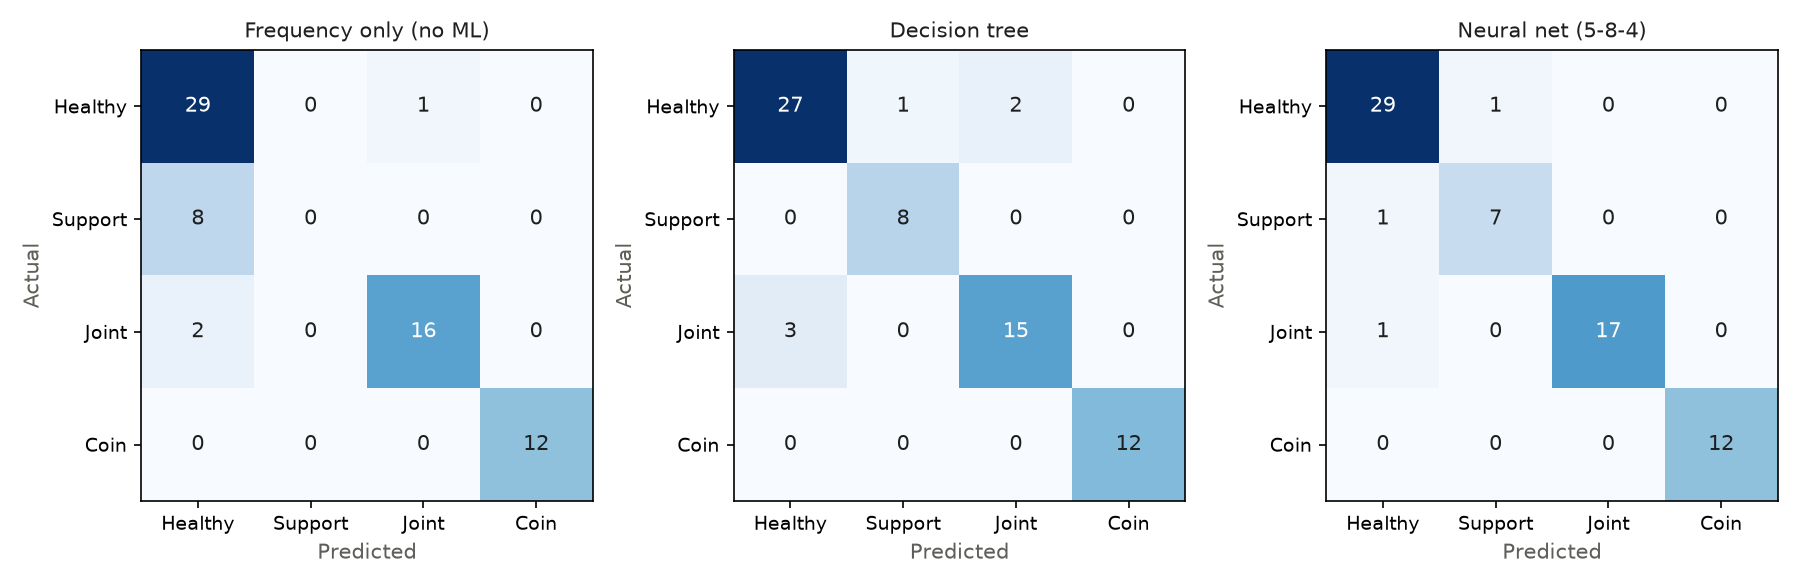
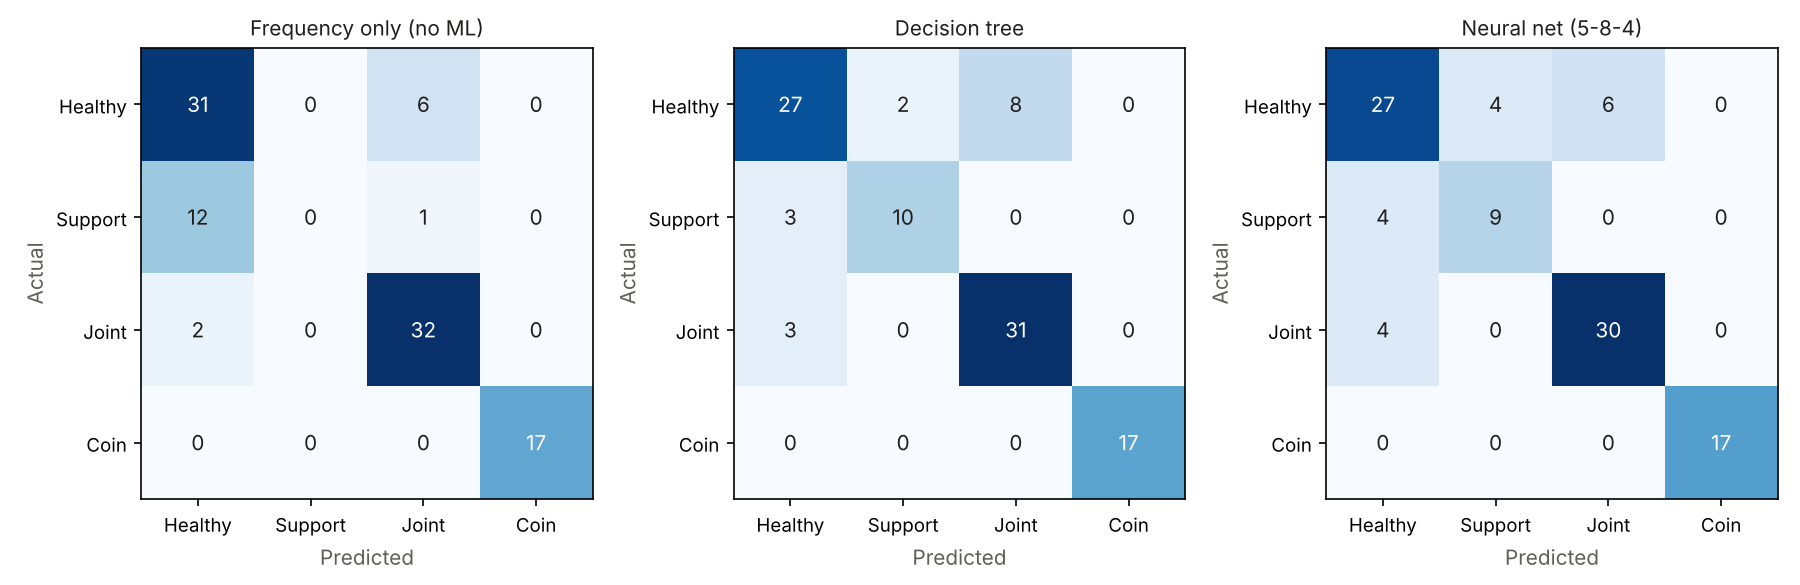
Retrain on all lab readings: relabel test-named files, rebuild features and model

diff --git a/board/model.h b/board/model.h
@@ -1,33 +1,37 @@
-/* AUTO-GENERATED by pc/train.py from 'real' data on 2026-10-28 22:35. Do not edit by hand: retrain instead. */
+/* AUTO-GENERATED by pc/train.py from 'real' data on 2026-10-29 10:56. Do not edit by hand: retrain instead. */
 #ifndef MODEL_H
 #define MODEL_H
 
 #define N_FEAT 5
 #define N_CLASS 4
 #define N_HIDDEN 8
-#define KNN_N 68
+#define KNN_N 101
 
 static const char *const CLASS_NAME[N_CLASS] = {"HEALTHY", "LOOSE_SUPPORT", "LOOSE_JOINT", "ADDED_MASS"};
 /* feature order: f1_hz, damping, amp_g, energy_ratio, decay_s */
 
-static const float SC_MEAN[N_FEAT] = {4.473004f, 0.02716155f, 2.838084f, 0.01500434f, 3.503676f};
-static const float SC_STD[N_FEAT]  = {0.3969182f, 0.006050448f, 0.891126f, 0.04986002f, 1.374995f};
+static const float SC_MEAN[N_FEAT] = {4.388362f, 0.0250465f, 2.97687f, 0.03206512f, 4.05198f};
+static const float SC_STD[N_FEAT]  = {0.4357912f, 0.008942563f, 0.9924637f, 0.1138078f, 1.944565f};
 
 /* Decision tree (works on raw, unscaled features) */
 static int tree_predict(const float *f)
 {
-    if (f[0] <= 4.53899f) {   /* f1_hz */
-        if (f[0] <= 4.073935f) {   /* f1_hz */
+    if (f[0] <= 4.535375f) {   /* f1_hz */
+        if (f[0] <= 3.86936f) {   /* f1_hz */
             return 3;
         } else {
-            return 2;
+            if (f[1] <= 0.0223971f) {   /* damping */
+                return 2;
+            } else {
+                return 2;
+            }
         }
     } else {
         if (f[1] <= 0.0338416f) {   /* damping */
-            if (f[4] <= 3.125f) {   /* decay_s */
+            if (f[2] <= 4.94214f) {   /* amp_g */
                 return 0;
             } else {
-                return 0;
+                return 1;
             }
         } else {
             return 1;
@@ -37,105 +41,138 @@ static int tree_predict(const float *f)
 
 /* Neural network: hidden = relu(W1 * x + b1), out = W2 * hidden + b2 */
 static const float NN_W1[N_HIDDEN][N_FEAT] = {
-    {-0.7853181f, 0.2661794f, -1.463147f, -1.372062f, 0.5248365f},
-    {1.875099f, 0.2158859f, 0.4927367f, 0.1290091f, -0.5314819f},
-    {1.02453f, 2.204229f, 0.3709678f, -0.4438259f, -1.340457f},
-    {-0.02013136f, -0.2927028f, 0.1605594f, 1.190149f, 0.5456217f},
-    {0.5750396f, 0.4742824f, 1.494026f, 0.7307562f, 0.2315226f},
-    {0.9168659f, -0.4592688f, -0.2123078f, -0.7272265f, 0.3484041f},
-    {0.03969496f, -0.5064908f, 0.05105328f, -0.2010273f, 0.5074154f},
-    {0.4707724f, -1.721488f, 0.5556094f, -0.08591001f, 0.06441382f}
+    {-0.8836706f, 0.3383932f, -1.341994f, -1.69552f, 0.572061f},
+    {0.8919419f, 0.04597291f, 1.019602f, 0.486937f, 0.4764103f},
+    {1.181526f, 1.768599f, 0.3519936f, -0.6887702f, -1.550507f},
+    {-0.4664389f, -0.1161176f, 1.039079f, 0.7936109f, 0.4407922f},
+    {0.7347332f, -0.02062729f, 1.088348f, 0.02125157f, 0.4159958f},
+    {0.60207f, -0.1712505f, -0.188681f, -0.7850809f, 0.04838491f},
+    {0.2220936f, -0.4617013f, -0.09827895f, 0.04880272f, 0.3885174f},
+    {0.5150062f, -1.583272f, 0.2944313f, -0.0411761f, 0.08550909f}
 };
-static const float NN_B1[N_HIDDEN] = {0.6057019f, -0.3006353f, 0.2479733f, -0.1263551f, 0.8579294f, 1.412279f, -0.5043284f, 1.410694f};
+static const float NN_B1[N_HIDDEN] = {0.836213f, -0.6615249f, 0.8261668f, -0.8904328f, 0.7419775f, 1.42474f, -0.6186491f, 0.9831308f};
 static const float NN_W2[N_CLASS][N_HIDDEN] = {
-    {-0.5368956f, 1.518659f, 0.1995815f, -1.153331f, -1.014147f, 1.272246f, 0.4693256f, -0.2673269f},
-    {-0.959606f, 0.5350457f, 0.6587948f, -0.05418951f, 0.6427418f, -0.8515257f, -0.01951892f, -2.341716f},
-    {-0.583885f, -2.013425f, -0.807294f, 0.1019739f, -0.2822262f, 1.27225f, 0.5498074f, 0.510305f},
-    {0.8765858f, -1.243169f, -0.8962595f, -0.9573891f, -1.196806f, -0.6304674f, -0.6183422f, -1.114511f}
+    {-0.5339372f, 1.140038f, 0.1123037f, 1.211091f, -0.9042723f, 1.638048f, 0.4652769f, -0.4746721f},
+    {-1.278871f, 0.3315584f, 0.6738397f, -1.280292f, 0.4930093f, -0.6290881f, -0.04532188f, -1.888764f},
+    {-0.5647647f, -1.743873f, -0.828193f, -0.6292436f, 0.6962386f, 0.8381314f, 0.5681491f, 0.6034502f},
+    {1.035079f, -0.8213552f, -0.9358833f, -0.2391317f, -1.454965f, -0.5995556f, -0.5403484f, -1.224857f}
 };
-static const float NN_B2[N_CLASS] = {-0.3756896f, -1.466087f, 0.5205838f, 0.3773618f};
+static const float NN_B2[N_CLASS] = {-0.9216086f, -1.202879f, 0.178651f, 0.08815684f};
 
 /* Health score: health = 100 * (1 - mean KNN_DAMAGE of the 3 nearest labelled flicks) */
 #define UNSAFE_HEALTH 40.0f
 
 /* Change detector: healthy baseline (raw features) */
-static const float HB_MEAN[N_FEAT] = {4.71499f, 0.02963886f, 2.847854f, 0.00540816f, 2.775f};
-static const float HB_STD[N_FEAT]  = {0.08608599f, 0.00145514f, 0.7553206f, 0.003302253f, 0.2076656f};
-#define CHANGE_THR 3.0f
+static const float HB_MEAN[N_FEAT] = {4.663599f, 0.02837784f, 2.959962f, 0.02548369f, 3.060811f};
+static const float HB_STD[N_FEAT]  = {0.1514319f, 0.005004144f, 0.9657035f, 0.1102672f, 1.204448f};
+#define CHANGE_THR 6.924278f
 
 /* kNN memory (scaled features). Teach mode adds more in RAM. */
-#define NOVELTY_THR 1.087385f
+#define NOVELTY_THR 2.915979f
 static const float KNN_X[KNN_N][N_FEAT] = {
-    {-2.202553f, -0.3955322f, -0.6246185f, -0.2763711f, 0.7246015f},
-    {-2.000219f, -0.1732511f, -1.49812f, -0.2734858f, 0.3609639f},
-    {-1.880547f, -0.2932753f, -1.482769f, -0.2640827f, 0.3609639f},
-    {-1.950083f, -0.304696f, -1.540146f, -0.2768472f, 0.5427827f},
-    {-2.091724f, -0.1789697f, -0.6317107f, -0.2771862f, 0.3609639f},
-    {-1.921387f, -0.1903573f, -1.234757f, -0.273964f, 0.3609639f},
-    {-2.000749f, -0.1900433f, -0.9564571f, -0.278687f, 0.3609639f},
-    {-1.91597f, -0.2621206f, -1.229381f, -0.2763597f, 0.5427827f},
-    {-2.22354f, -0.2966635f, -0.9904142f, -0.264905f, 0.7246015f},
-    {-2.046476f, -0.2305857f, -1.548326f, -0.2551298f, 0.5427827f},
-    {-2.178191f, -0.2266522f, -1.265762f, -0.2731569f, 0.5427827f},
-    {-1.98989f, -0.01594048f, -1.015416f, -0.273774f, 0.179145f},
-    {0.9588537f, 1.071533f, -0.04891993f, -0.1447444f, -0.911768f},
-    {0.4648476f, 0.6088728f, -0.2247761f, -0.2098988f, -0.5481303f},
-    {0.6864046f, 0.6305406f, -0.9740192f, -0.1850833f, -0.7299491f},
-    {0.7544035f, 0.5002858f, -0.5192574f, -0.1759857f, -0.5481303f},
-    {0.308241f, 0.7126998f, 0.2257101f, -0.2218573f, -0.7299491f},
-    {0.7720393f, 0.2098445f, -0.822705f, -0.2058703f, -0.3663115f},
-    {0.3134814f, 0.6811319f, -0.424759f, -0.2385699f, -0.5481303f},
-    {0.7521864f, 0.289822f, -0.9034792f, -0.2392468f, -0.5481303f},
-    {0.4078081f, 0.5444643f, 0.171049f, -0.2477953f, -0.7299491f},
-    {0.5346101f, 0.407648f, -0.1517786f, -0.2477656f, -0.3663115f},
-    {0.8151969f, 0.07575521f, -1.054995f, -0.2344632f, -0.3663115f},
-    {0.2824423f, 0.5666941f, 0.2302213f, -0.2339834f, -0.5481303f},
-    {0.6515611f, 0.2821201f, -1.135354f, -0.2501304f, -0.5481303f},
-    {0.7208197f, 0.3009451f, -0.6094916f, -0.2485865f, -0.5481303f},
-    {0.7005889f, 0.2568823f, -0.5908635f, -0.2470911f, -0.3663115f},
-    {0.704897f, 0.2798062f, 0.23122f, -0.2385663f, -0.5481303f},
-    {0.9010836f, -0.009726067f, -0.2016817f, -0.1854245f, -0.5481303f},
-    {0.7258837f, 0.3435701f, 0.03398641f, -0.2218655f, -0.5481303f},
-    {0.6963562f, 0.3922111f, -0.3093208f, -0.2148495f, -0.3663115f},
-    {0.1837317f, 0.7253931f, 0.2295929f, -0.2353384f, -0.5481303f},
-    {0.8188752f, 0.3240839f, 0.01003918f, -0.2290929f, -0.5481303f},
-    {0.2644537f, 0.6111205f, 0.2328472f, -0.2518841f, -0.7299491f},
-    {0.5436548f, 0.4838903f, -0.4203489f, -0.2148455f, -0.7299491f},
-    {0.9330297f, 0.1757974f, 0.1970722f, -0.08229717f, -0.5481303f},
-    {0.9635398f, 0.2927309f, -0.4162866f, -0.1913549f, -0.5481303f},
-    {0.5503564f, 0.7552917f, 0.2361127f, 0.007614541f, -0.5481303f},
-    {0.3905754f, 0.01276814f, 2.356677f, -0.1198926f, -0.1844926f},
-    {0.5647926f, 0.239115f, 1.150551f, -0.1009319f, -0.3663115f},
-    {0.5250111f, 0.2114146f, 1.485285f, -0.1226983f, -0.3663115f},
-    {0.4001743f, 0.3065646f, 2.346589f, -0.0413726f, -0.3663115f},
-    {0.1487623f, -0.03142694f, 0.2282126f, -0.2110454f, -0.1844926f},
-    {-0.05747665f, -0.06477984f, 1.069104f, -0.1918491f, -0.1844926f},
-    {0.08373632f, 0.17231f, 0.2336888f, -0.2147133f, -0.3663115f},
-    {-0.02548013f, -0.1286759f, 0.3992434f, -0.1925169f, -0.002673806f},
-    {0.2151488f, 0.05012074f, -0.3721402f, -0.2194445f, -0.1844926f},
-    {0.09018601f, 0.01443743f, 0.2336888f, -0.2145201f, -0.1844926f},
-    {-0.02459834f, -0.08471225f, 0.8144484f, -0.2052151f, -0.1844926f},
-    {0.003921389f, -0.08532378f, 1.085173f, -0.2061098f, -0.002673806f},
-    {-0.04470324f, -0.2922341f, 1.590803f, -0.2066441f, -0.1844926f},
-    {-0.08733167f, -0.1569714f, 1.803321f, -0.1912554f, -0.002673806f},
-    {-0.04755017f, -0.8380945f, -0.6130265f, 4.236794f, -0.5481303f},
-    {-0.0388834f, -2.697197f, -0.7420654f, -0.1410595f, 2.906428f},
-    {-0.03747253f, -2.56752f, -0.7811845f, -0.1270854f, 2.724609f},
-    {-0.1203108f, -2.604096f, 0.1547774f, -0.05056634f, 2.724609f},
-    {-0.09992872f, -2.599237f, 0.1693881f, -0.0619101f, 2.724609f},
-    {-0.1302876f, -2.570743f, 0.2342836f, 0.01787126f, 2.54279f},
-    {-0.05137968f, -2.550431f, 0.2264059f, -0.04633249f, 2.360971f},
-    {0.01140404f, -2.530713f, -1.2786f, -0.1273038f, 2.724609f},
-    {0.6781157f, 1.514145f, 0.658163f, 1.644148f, -0.911768f},
-    {0.6923252f, 1.306193f, 1.271915f, -0.2137353f, -0.7299491f},
-    {0.6504526f, 1.168616f, 2.370177f, -0.1952801f, -0.7299491f},
-    {0.7129844f, 1.295053f, 0.234508f, 0.129229f, -0.911768f},
-    {1.463844f, 1.219885f, -0.1913577f, 6.670287f, -0.911768f},
-    {0.7440235f, 1.211588f, 1.428929f, -0.2185875f, -0.7299491f},
-    {0.6773347f, 1.188036f, 2.244942f, -0.2090019f, -0.7299491f},
-    {0.7045947f, 1.136586f, 1.216165f, -0.2163328f, -0.7299491f}
+    {-1.811859f, -0.03109887f, -0.700681f, -0.270989f, 0.2303959f},
+    {-1.627573f, 0.1192943f, -1.484992f, -0.2697249f, -0.02673102f},
+    {-1.518576f, 0.03808711f, -1.471208f, -0.2656053f, -0.02673102f},
+    {-1.581909f, 0.03036002f, -1.522726f, -0.2711976f, 0.1018324f},
+    {-1.710916f, 0.1154251f, -0.707049f, -0.2713461f, -0.02673102f},
+    {-1.555773f, 0.1077204f, -1.24852f, -0.2699344f, -0.02673102f},
+    {-1.628055f, 0.1079329f, -0.9986365f, -0.2720036f, -0.02673102f},
+    {-1.550839f, 0.05916608f, -1.243693f, -0.270984f, 0.1018324f},
+    {-1.830974f, 0.0357947f, -1.029126f, -0.2659656f, 0.2303959f},
+    {-1.669704f, 0.08050225f, -1.530072f, -0.261683f, 0.1018324f},
+    {-1.789669f, 0.08316368f, -1.27636f, -0.2695808f, 0.1018324f},
+    {-1.618165f, 0.2257291f, -1.051575f, -0.2698512f, -0.1552945f},
+    {-2.372311f, -0.823847f, 0.07662702f, -0.2683039f, 1.516031f},
+    {-2.383348f, -0.9572763f, 0.0772618f, -0.2688036f, 1.516031f},
+    {-2.389636f, -1.037287f, -0.4841089f, -0.2597826f, 1.644594f},
+    {-2.402509f, -1.046479f, -0.4328526f, -0.25434f, 1.644594f},
+    {-2.374651f, -0.8398491f, 0.07622398f, -0.2668599f, 1.13034f},
+    {1.067548f, 0.9615025f, -0.1837654f, -0.2133224f, -0.9266753f},
+    {0.6176073f, 0.6484714f, -0.3416654f, -0.241867f, -0.6695483f},
+    {0.8194012f, 0.6631317f, -1.014405f, -0.2309951f, -0.7981118f},
+    {0.8813345f, 0.5750026f, -0.6060781f, -0.2270094f, -0.6695483f},
+    {0.4749702f, 0.7187198f, 0.06282299f, -0.2471061f, -0.7981118f},
+    {0.8973972f, 0.3784929f, -0.8785414f, -0.2401021f, -0.5409849f},
+    {0.4797431f, 0.6973612f, -0.5212286f, -0.254428f, -0.6695483f},
+    {0.8793152f, 0.4326049f, -0.951068f, -0.2547245f, -0.6695483f},
+    {0.5656558f, 0.6048933f, 0.01374311f, -0.2584697f, -0.7981118f},
+    {0.6811469f, 0.5123248f, -0.2761214f, -0.2584567f, -0.5409849f},
+    {0.936705f, 0.2877695f, -1.087113f, -0.2526288f, -0.5409849f},
+    {0.4514727f, 0.6199338f, 0.06687351f, -0.2524186f, -0.6695483f},
+    {0.7876658f, 0.4273939f, -1.159267f, -0.2594928f, -0.6695483f},
+    {0.8507465f, 0.4401307f, -0.6870987f, -0.2588164f, -0.6695483f},
+    {0.8323202f, 0.4103182f, -0.6703726f, -0.2581612f, -0.5409849f},
+    {0.8362441f, 0.4258283f, 0.06777027f, -0.2544264f, -0.6695483f},
+    {1.014931f, 0.2299337f, -0.3209291f, -0.2311446f, -0.6695483f},
+    {0.8553588f, 0.4689703f, -0.1093244f, -0.2471097f, -0.6695483f},
+    {0.8284651f, 0.5018803f, -0.4175775f, -0.2440359f, -0.5409849f},
+    {0.3615672f, 0.7273079f, 0.06630926f, -0.2530123f, -0.6695483f},
+    {0.9400553f, 0.4557862f, -0.1308264f, -0.2502761f, -0.6695483f},
+    {0.4350887f, 0.6499922f, 0.06923128f, -0.2602611f, -0.7981118f},
+    {0.6893848f, 0.5639095f, -0.5172688f, -0.2440342f, -0.7981118f},
+    {1.044027f, 0.355457f, 0.0371092f, -0.1859638f, -0.6695483f},
+    {1.071816f, 0.434573f, -0.5136213f, -0.2337428f, -0.6695483f},
+    {0.6954886f, 0.747537f, 0.07216338f, -0.1465728f, -0.6695483f},
+    {0.5499602f, 0.245153f, 1.976203f, -0.2024346f, -0.4124214f},
+    {0.7086371f, 0.3982971f, 0.8932312f, -0.1941278f, -0.5409849f},
+    {0.6724042f, 0.3795552f, 1.193786f, -0.2036638f, -0.5409849f},
+    {0.5587029f, 0.4439327f, 1.967145f, -0.1680344f, -0.5409849f},
+    {0.9672931f, -2.665429f, -2.671898f, 5.715188f, 3.058792f},
+    {0.3462158f, 0.640722f, 1.986097f, -0.2640152f, -0.6695483f},
+    {0.1651658f, 0.6295954f, 1.990309f, -0.2579746f, -0.6695483f},
+    {-0.1957868f, -0.2620058f, 0.4392398f, -0.2473161f, -0.02673102f},
+    {-0.1497327f, -0.1254566f, 0.0721533f, -0.2412296f, -0.1552945f},
+    {-0.244434f, 0.02426557f, 1.382398f, 0.4452304f, -0.2838579f},
+    {-0.005397489f, 0.1355983f, 0.07122632f, -0.2627327f, -0.4124214f},
+    {0.3297171f, 0.2152511f, 0.06506992f, -0.2423693f, -0.4124214f},
+    {0.1418749f, 0.1926849f, 0.8201001f, -0.2339593f, -0.4124214f},
+    {0.2704915f, 0.3530975f, 0.06998698f, -0.2439762f, -0.5409849f},
+    {0.1710173f, 0.1494534f, 0.2186373f, -0.2342519f, -0.2838579f},
+    {0.3901819f, 0.2704254f, -0.4739825f, -0.246049f, -0.4124214f},
+    {0.2763659f, 0.2462825f, 0.06998698f, -0.2438916f, -0.4124214f},
+    {0.1718204f, 0.1791988f, 0.5914469f, -0.239815f, -0.4124214f},
+    {0.1977961f, 0.178785f, 0.8345288f, -0.240207f, -0.2838579f},
+    {0.1535089f, 0.03879161f, 1.28853f, -0.2404411f, -0.4124214f},
+    {0.114683f, 0.130309f, 1.479348f, -0.2336992f, -0.2838579f},
+    {-0.320732f, -0.5582744f, 0.1256464f, -0.2769809f, 0.2303959f},
+    {-0.3342476f, -0.824149f, 0.7535888f, -0.2770645f, 0.6160863f},
+    {-0.3565519f, -0.6677956f, 0.06915068f, -0.2690998f, 0.3589594f},
+    {-0.3710084f, -0.8332962f, 1.743439f, -0.2765842f, 0.6160863f},
+    {-0.3777088f, -0.84468f, 0.3811822f, -0.2731078f, 0.6160863f},
+    {-0.663855f, -2.761447f, -2.069664f, 5.178362f, 2.030284f},
+    {0.01261572f, -0.800498f, 0.4690948f, 1.179813f, -1.183802f},
+    {-0.1459694f, -0.4384318f, 1.270635f, -0.2740908f, -0.02673102f},
+    {-0.07985975f, -0.3887145f, -0.1114504f, -0.2641581f, 0.1018324f},
+    {-0.1773376f, -0.4980791f, 0.5361602f, -0.2616367f, 0.2303959f},
+    {-0.09261816f, -0.355961f, 0.07441031f, -0.2748916f, 0.1018324f},
+    {0.1509159f, -0.3305321f, -0.6902726f, 1.706262f, -0.6695483f},
+    {0.1588096f, -1.588382f, -0.8061358f, -0.211708f, 1.773157f},
+    {0.1600946f, -1.500644f, -0.8412605f, -0.2055858f, 1.644594f},
+    {0.08464563f, -1.525391f, -0.0008669993f, -0.1720623f, 1.644594f},
+    {0.1032096f, -1.522103f, 0.01225187f, -0.1770321f, 1.644594f},
+    {0.07555871f, -1.502825f, 0.070521f, -0.1420793f, 1.516031f},
+    {0.147428f, -1.489081f, 0.0634477f, -0.1702074f, 1.387467f},
+    {0.2046113f, -1.475741f, -1.287886f, -0.2056815f, 1.644594f},
+    {-0.8386864f, -1.702697f, 0.06402202f, -0.2491663f, 2.544538f},
+    {-0.8546345f, -1.681946f, 0.0174309f, -0.2420627f, 2.287411f},
+    {-0.8633083f, -1.66544f, 0.07579072f, -0.241788f, 2.415975f},
+    {-0.8497697f, -1.654213f, 0.07190141f, -0.2428788f, 2.287411f},
+    {-0.8332481f, -1.680917f, 0.07449092f, -0.2467145f, 2.287411f},
+    {0.8118517f, 1.260969f, 0.4511193f, 0.5704046f, -0.9266753f},
+    {0.8247937f, 1.120271f, 1.002202f, -0.2435478f, -0.7981118f},
+    {0.7866561f, 1.027188f, 1.988324f, -0.2354624f, -0.7981118f},
+    {0.84361f, 1.112734f, 0.07072252f, -0.09329261f, -0.9266753f},
+    {1.527493f, 1.061876f, -0.3116592f, 2.772393f, -0.9266753f},
+    {0.8718804f, 1.056263f, 1.143185f, -0.2456736f, -0.7981118f},
+    {0.8111403f, 1.040328f, 1.875877f, -0.241474f, -0.7981118f},
+    {0.8359687f, 1.005517f, 0.9521452f, -0.2446858f, -0.7981118f},
+    {2.434165f, 5.109955f, -2.251444f, 4.848306f, -1.569493f},
+    {0.735393f, 0.4889758f, -0.3310353f, -0.2264261f, -0.6695483f},
+    {0.3449767f, 0.6838975f, 1.984183f, -0.2227238f, -0.6695483f},
+    {0.7995293f, 0.6816275f, 1.992032f, -0.2365839f, -0.9266753f},
+    {0.664717f, 0.6365621f, 1.986914f, -0.2257852f, -0.7981118f}
 };
-static const unsigned char KNN_Y[KNN_N] = {3, 3, 3, 3, 3, 3, 3, 3, 3, 3, 3, 3, 0, 0, 0, 0, 0, 0, 0, 0, 0, 0, 0, 0, 0, 0, 0, 0, 0, 0, 0, 0, 0, 0, 0, 0, 0, 0, 0, 0, 0, 0, 2, 2, 2, 2, 2, 2, 2, 2, 2, 2, 2, 2, 2, 2, 2, 2, 2, 2, 1, 1, 1, 1, 1, 1, 1, 1};
-static const float KNN_DAMAGE[KNN_N] = {0.0f, 0.0f, 0.0f, 0.0f, 0.0f, 0.0f, 0.0f, 0.0f, 0.0f, 0.0f, 0.0f, 0.0f, 0.0f, 0.0f, 0.0f, 0.0f, 0.0f, 0.0f, 0.0f, 0.0f, 0.0f, 0.0f, 0.0f, 0.0f, 0.0f, 0.0f, 0.0f, 0.0f, 0.0f, 0.0f, 0.0f, 0.0f, 0.0f, 0.0f, 0.0f, 0.0f, 0.0f, 0.0f, 0.0f, 0.0f, 0.0f, 0.0f, 0.5f, 0.5f, 0.5f, 0.5f, 0.5f, 0.5f, 0.5f, 0.5f, 0.5f, 0.5f, 1.0f, 1.0f, 1.0f, 1.0f, 1.0f, 1.0f, 1.0f, 1.0f, 0.75f, 0.75f, 0.75f, 0.75f, 0.75f, 0.75f, 0.75f, 0.75f};  /* -1 = unlabelled */
+static const unsigned char KNN_Y[KNN_N] = {3, 3, 3, 3, 3, 3, 3, 3, 3, 3, 3, 3, 3, 3, 3, 3, 3, 0, 0, 0, 0, 0, 0, 0, 0, 0, 0, 0, 0, 0, 0, 0, 0, 0, 0, 0, 0, 0, 0, 0, 0, 0, 0, 0, 0, 0, 0, 0, 0, 0, 0, 0, 0, 0, 2, 2, 2, 2, 2, 2, 2, 2, 2, 2, 2, 2, 2, 2, 2, 2, 2, 2, 2, 2, 2, 2, 2, 2, 2, 2, 2, 2, 2, 2, 2, 2, 2, 2, 1, 1, 1, 1, 1, 1, 1, 1, 1, 1, 1, 1, 1};
+static const float KNN_DAMAGE[KNN_N] = {0.0f, 0.0f, 0.0f, 0.0f, 0.0f, 0.0f, 0.0f, 0.0f, 0.0f, 0.0f, 0.0f, 0.0f, 0.0f, 0.0f, 0.0f, 0.0f, 0.0f, 0.0f, 0.0f, 0.0f, 0.0f, 0.0f, 0.0f, 0.0f, 0.0f, 0.0f, 0.0f, 0.0f, 0.0f, 0.0f, 0.0f, 0.0f, 0.0f, 0.0f, 0.0f, 0.0f, 0.0f, 0.0f, 0.0f, 0.0f, 0.0f, 0.0f, 0.0f, 0.0f, 0.0f, 0.0f, 0.0f, 0.0f, 0.0f, 0.0f, 0.0f, 0.0f, 0.0f, 0.0f, 0.5f, 0.5f, 0.5f, 0.5f, 0.5f, 0.5f, 0.5f, 0.5f, 0.5f, 0.5f, 0.5f, 0.5f, 0.5f, 0.5f, 0.5f, 0.5f, 0.5f, 0.5f, 0.5f, 0.5f, 0.5f, 1.0f, 1.0f, 1.0f, 1.0f, 1.0f, 1.0f, 1.0f, 1.0f, 1.0f, 1.0f, 1.0f, 1.0f, 1.0f, 0.75f, 0.75f, 0.75f, 0.75f, 0.75f, 0.75f, 0.75f, 0.75f, 0.75f, 0.75f, 0.75f, 0.75f, 0.75f};  /* -1 = unlabelled */
 
 #endif
